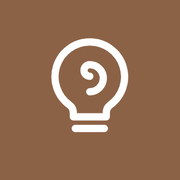
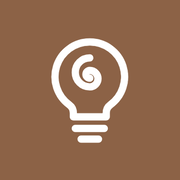
Landing: carga con el bombillo y animaciones de la etapa 3
- Bombillo de carga en la primera visita (0,8 s), nunca con movimiento reducido.
- Favicon e íconos con el bombillo de dos líneas, igual que la barra.
- Preguntas frecuentes que se despliegan suave.
- Entrada escalonada del inicio sin retrasar la carga medida (LCP 1,9 s).
- Pasos de «Cómo funciona» uno detrás de otro.

Changed region(s): [[0.3889, 0.2778, 0.6111, 0.5556], [0.4167, 0.75, 0.5833, 0.8056]]

diff --git a/index.html b/index.html
@@ -3,7 +3,29 @@
 <head>
     <meta charset="UTF-8">
     <meta name="viewport" content="width=device-width, initial-scale=1">
-    <script>document.documentElement.classList.add('js')</script>
+    <script>
+        (function (h) {
+            h.classList.add('js');
+            try {
+                if (sessionStorage.getItem('psic-carga')) h.classList.add('sin-carga');
+                else sessionStorage.setItem('psic-carga', '1');
+            } catch (e) { h.classList.add('sin-carga'); }
+        })(document.documentElement);
+    </script>
+    <style>
+        .cargador{position:fixed;inset:0;z-index:200;display:grid;place-items:center;background:#FDFAF7;pointer-events:none;animation:carga-sale .25s ease .8s forwards}
+        .cargador svg{width:88px;height:88px;overflow:visible}
+        .cargador circle{transform-origin:32px 32px;transform:scale(.6);opacity:0;animation:carga-llena .3s cubic-bezier(.23,1,.32,1) .45s forwards}
+        .cargador path{fill:none;stroke:#8C6246;stroke-linecap:round;stroke-linejoin:round;stroke-dasharray:1;stroke-dashoffset:1;animation:carga-dibuja .5s cubic-bezier(.23,1,.32,1) forwards,carga-blanco .2s ease .5s forwards}
+        .cargador path+path{animation-delay:.12s,.5s}
+        .cargador path+path+path{animation-delay:.18s,.5s}
+        .sin-carga .cargador{display:none}
+        @keyframes carga-dibuja{to{stroke-dashoffset:0}}
+        @keyframes carga-blanco{to{stroke:#fff}}
+        @keyframes carga-llena{to{transform:scale(1);opacity:1}}
+        @keyframes carga-sale{to{opacity:0;visibility:hidden}}
+        @media (prefers-reduced-motion:reduce){.cargador{display:none}}
+    </style>
     <title>Psicconsciente — Daryeli Romero, psicóloga clínica | Terapia online</title>
     <meta name="description" content="Psicconsciente: psicoterapia online con Daryeli Romero, psicóloga clínica. Terapia para la ansiedad, la autoestima, la pareja y el duelo.">
     <meta name="author" content="Daryeli Romero">
@@ -50,6 +72,16 @@
     <link rel="stylesheet" href="style.css">
 </head>
 <body>
+<div class="cargador" aria-hidden="true">
+    <svg viewBox="0 0 64 64">
+        <circle cx="32" cy="32" r="32" fill="#8C6246"/>
+        <g transform="translate(12.8 12.8) scale(1.6)" stroke-width="1.5">
+            <path pathLength="1" d="M12 2.1A7.2 7.2 0 0 0 7.8 15.15c.55.4.8 1 .8 1.7v.75h6.8v-.75c0-.7.25-1.3.8-1.7A7.2 7.2 0 0 0 12 2.1Z"/>
+            <path pathLength="1" d="M9 20h6M10.2 22.2h3.6"/>
+            <path pathLength="1" d="M12 9.6A.8.8 0 0 1 12 8A1.7 1.7 0 0 1 12 11.4A3 3 0 0 1 12 5.4"/>
+        </g>
+    </svg>
+</div>
 
 <a class="skip-link" href="#contenido">Saltar al contenido</a>
 

diff --git a/style.css b/style.css
@@ -825,6 +825,32 @@ body[data-menu-open="true"]{overflow:hidden}
 .js .reveal{opacity:0;transform:translateY(8px);transition:opacity .32s var(--ease),transform .32s var(--ease)}
 .js .reveal.is-visible{opacity:1;transform:none}
 
+@keyframes entra{from{opacity:0;transform:translateY(10px)}}
+@keyframes sube{from{transform:translateY(10px)}}
+
+.hero-grid > div:first-child > *{animation:entra .45s cubic-bezier(.23,1,.32,1) backwards}
+.hero-grid > div:first-child > :nth-child(2),.hero-grid > div:first-child > :nth-child(3){animation-name:sube}
+.hero-grid > div:first-child > :nth-child(2){animation-delay:60ms}
+.hero-grid > div:first-child > :nth-child(3){animation-delay:120ms}
+.hero-grid > div:first-child > :nth-child(4){animation-delay:180ms}
+.hero-grid > div:first-child > :nth-child(5){animation-delay:240ms}
+html:not(.sin-carga) .hero-grid > div:first-child > *{animation-delay:.75s}
+html:not(.sin-carga) .hero-grid > div:first-child > :nth-child(2){animation-delay:.81s}
+html:not(.sin-carga) .hero-grid > div:first-child > :nth-child(3){animation-delay:.87s}
+html:not(.sin-carga) .hero-grid > div:first-child > :nth-child(4){animation-delay:.93s}
+html:not(.sin-carga) .hero-grid > div:first-child > :nth-child(5){animation-delay:.99s}
+
+.js .steps .step.is-visible{animation:entra .32s var(--ease) backwards}
+.js .steps .step.is-visible:nth-child(2){animation-delay:70ms}
+.js .steps .step.is-visible:nth-child(3){animation-delay:140ms}
+
+.faq-item{interpolate-size:allow-keywords}
+.faq-item::details-content{
+  block-size:0;overflow:hidden;
+  transition:block-size .24s var(--ease),content-visibility .24s allow-discrete;
+}
+.faq-item[open]::details-content{block-size:auto}
+
 /* ============================================================
    17. ESCALADO — mobile-first, breakpoints 640 / 900 / 1200
    ============================================================ */
@@ -897,4 +923,5 @@ body[data-menu-open="true"]{overflow:hidden}
     transition-duration:.01ms !important;
   }
   .js .reveal{opacity:1;transform:none}
+  .hero-grid > div:first-child > *,.js .steps .step{animation:none !important}
 }

diff --git a/DONDE-QUEDAMOS.md b/DONDE-QUEDAMOS.md
@@ -22,6 +22,10 @@ Etapa 2 · lista B aplicada (22/10). Después: Lighthouse 100/100/100 en móvil 
 - NO tocado a propósito: fotos de Daryeli (hero, historia, og-image) hasta la sesión de fotos; historia (se reescribe); publicar (dominio).
 - Queda de la Etapa 2: lo que depende de Daryeli (testimonios, privacidad, correo) y la parte D (publicar). Luego Etapa 3: animaciones y carga del bombillo.
 
+Etapa 3 (22/10): carga con el bombillo, variante A, en línea en el <head> de index.html. Trazo terracota que se dibuja → círculo que se llena → bombillo blanco; sale a 0,8 s. Solo la primera visita de la sesión (sessionStorage `psic-carga`), nunca con movimiento reducido. Usa el bombillo de la barra (dos líneas en la base); favicon.svg y los íconos PNG ya pasados también a dos líneas.
+Animaciones aplicadas: FAQ que se despliega (`::details-content`, 0,24 s; en Safari abre sin animar), entrada escalonada del inicio (60 ms; tras el bombillo si sale), pasos uno tras otro (70 ms). Título y texto del inicio solo suben, sin fundido: con fundido el LCP pasaba de 1,9 a 2,5 s. LCP final 1,9 s. Descartadas: hover en tarjetas de terapias, contador en cifras. Testimonios: con el carrusel.
+Sin librerías ni Tailwind: todo CSS.
+
 Pendiente de Daryeli: los testimonios (se pondrán en carrusel uno por uno) y si hay permiso para publicarlos.
 Inicio: solo «Psicóloga clínica» y «Terapia cognitivo-conductual». Sesiones de 60 min; pareja «un poco más», sin cifra.
 **Ojo reserva:** la base dice 50 min individual y 60 pareja (`supabase/migrations/20260825120000_base.sql:44`, tabla `services`). Hay que pasarlo a 60 y fijar la de pareja con Daryeli.
